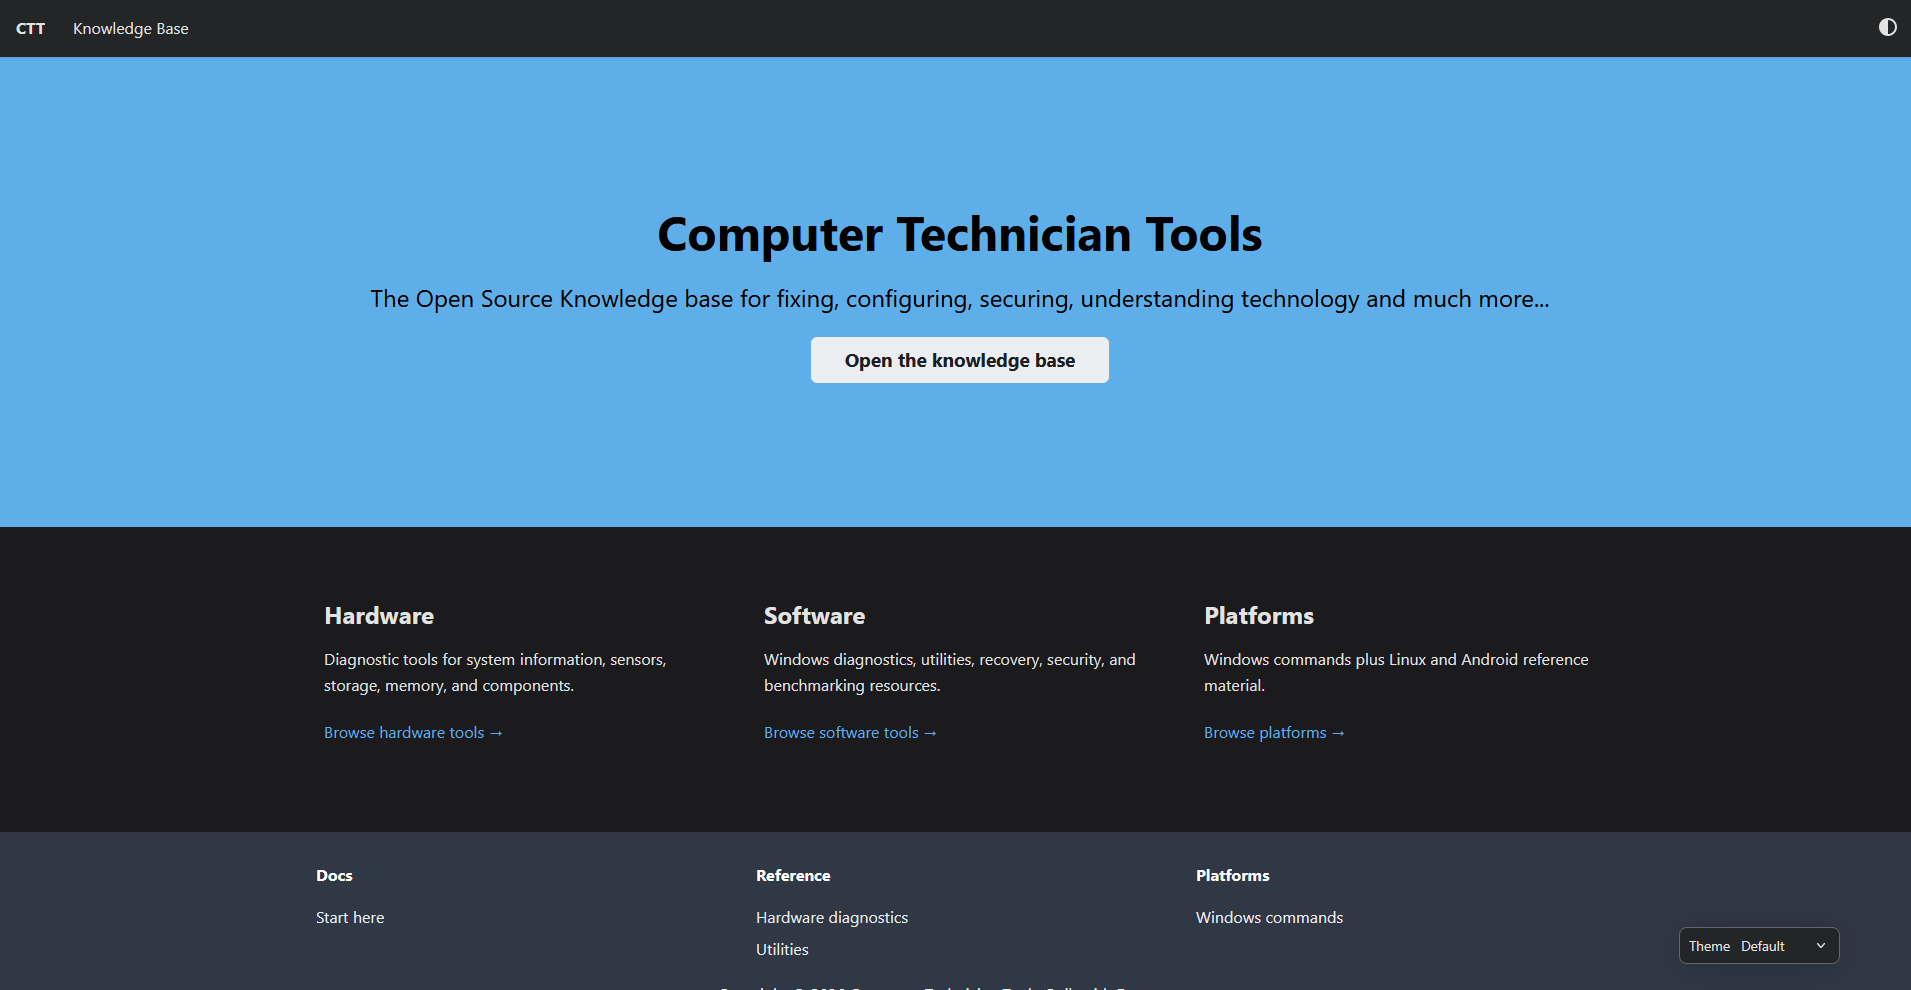
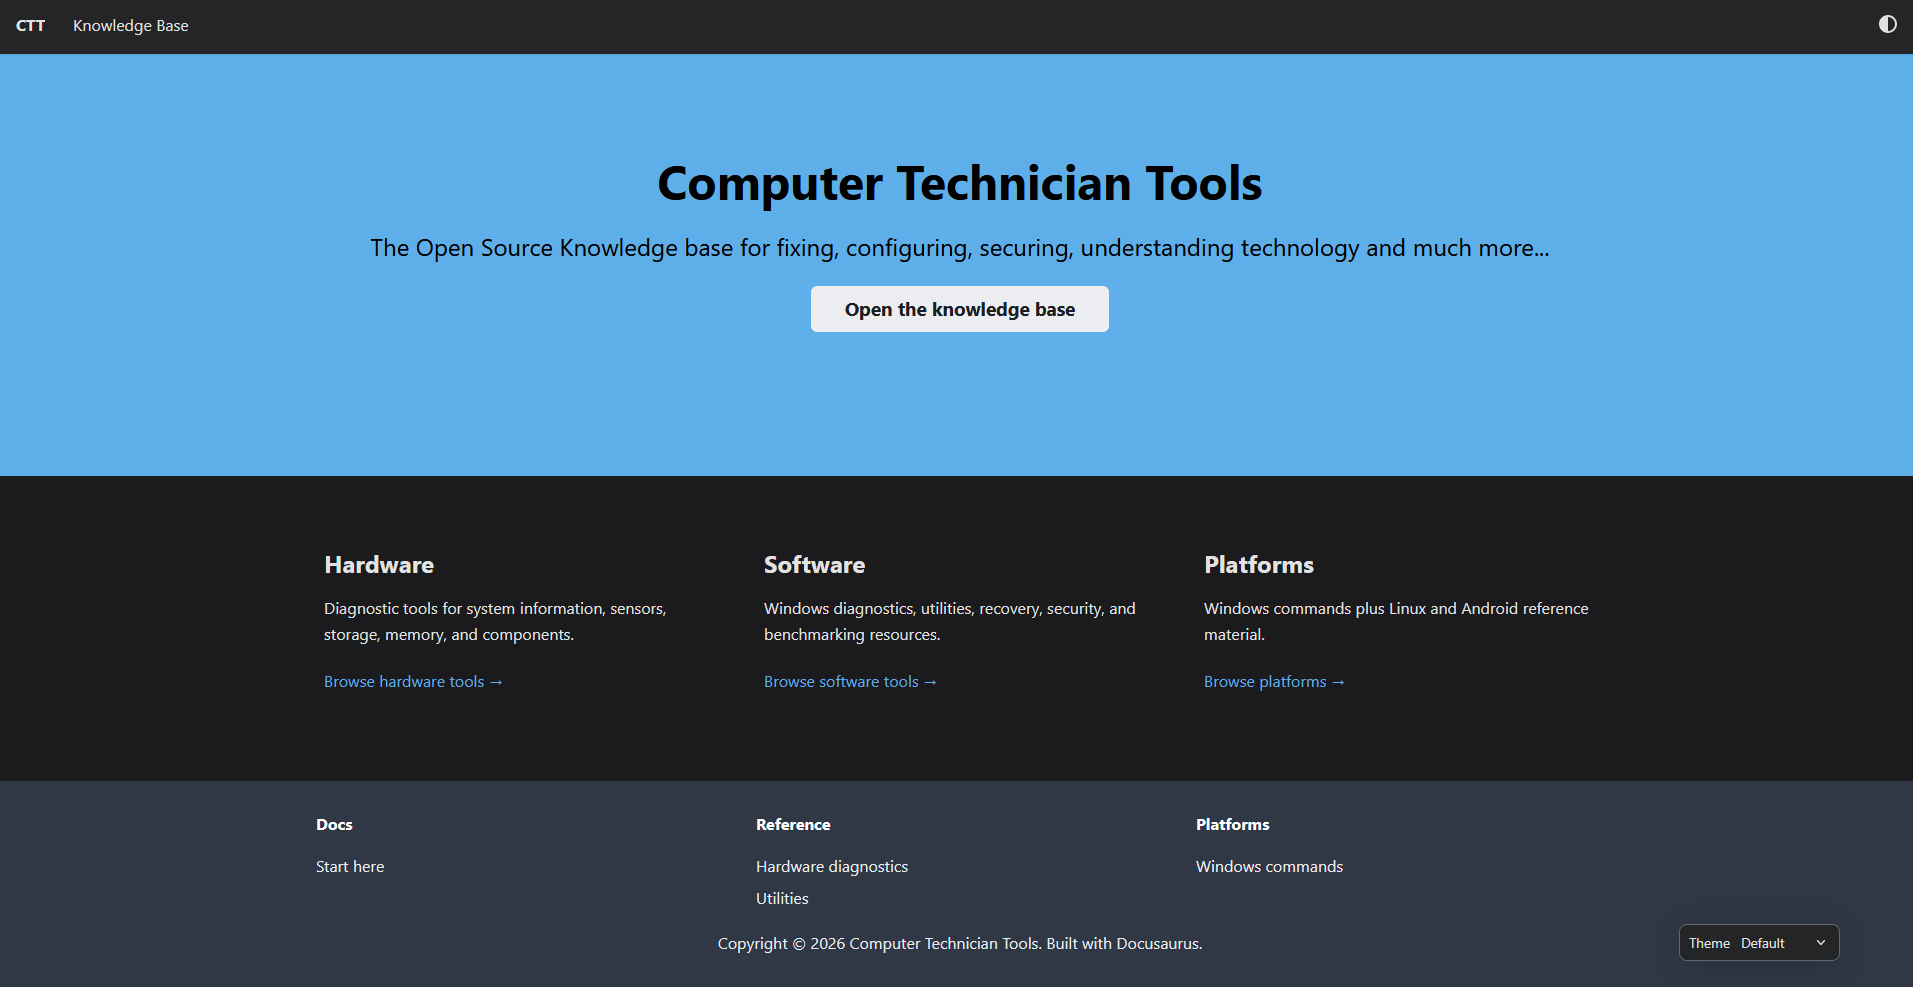
Made The README File Better And Provided Links

diff --git a/README.md b/README.md
@@ -21,14 +21,13 @@
 
 <h1 align="left">😎 Creators</h1>
 <p align="left"> Maintained by <a href="https://github.com/MRCYODev/">MRCYO</a> and <a href="https://github.com/AriseMonarch">TKOD</a>
-, and created for the sole purpose of having easily accesible knowaladge that is scattered across the internet and make it a bit easier to be reached by someone in need.</p>
+, and created for the sole purpose of having easily accessible knowledge that is scattered across the internet and make it a bit easier to be reached by someone in need.</p>
 <p align="left"> The internet is huge and the information overwhelming so why not make it just a tiny bit easier to find the stuff that you might need to fix and repair your technology.</p>
 
 <h1 align="left">🎓 Instruction Guide</h1>
 <p align="left">This is as straightforward as it can be. You just click <a href="https://ctt.mrcyo.com/">here</a> and you are ready to go look at whatever you need in our site.
-
+<p align="left">Preview of the homepage.
  ![alt text](ctt_homepage.png)
-
 
 <h1 align="center"> This Will Aim To Be The Main Source Of Troubleshooting And Helping With Whatever Problem You May Have With Technology</h1>
 <p align="center"> We Are Creating This In Order To Gather Useful Information All In One Place And Be Easy To Find</p>  
